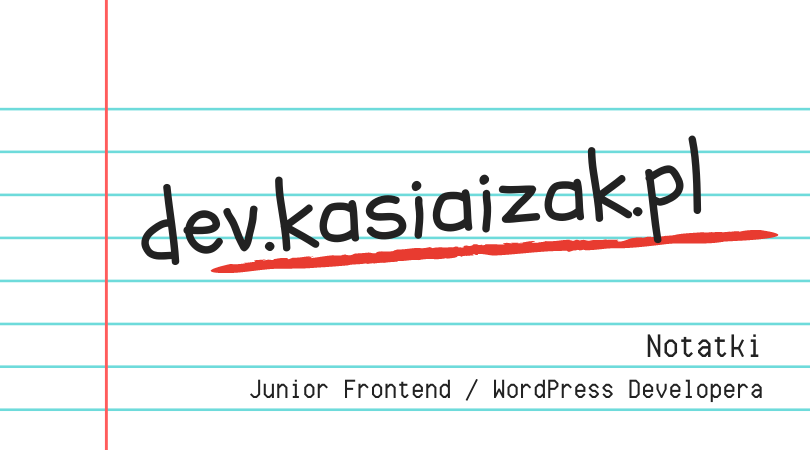
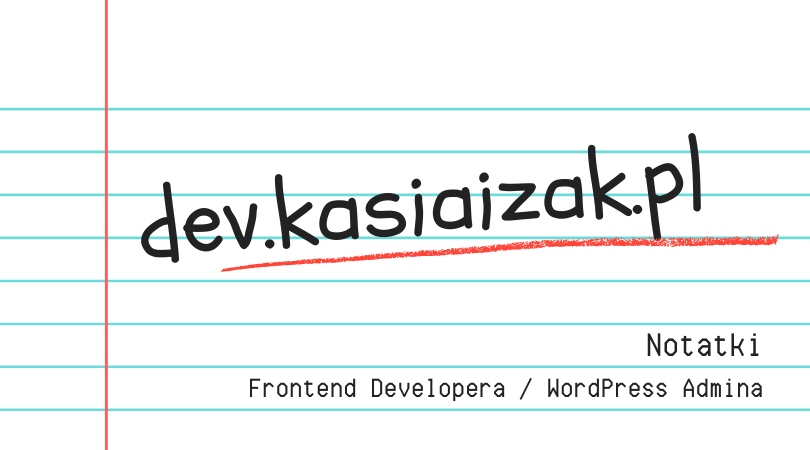
update: description, photo and cover

Changed region(s): [[0.1852, 0.3422, 0.9568, 0.6222], [0.3086, 0.84, 0.9568, 0.9022], [0.8025, 0.7467, 0.9259, 0.8089]]

diff --git a/README.md b/README.md
@@ -1,6 +1,6 @@
 # 👋 Witaj na stronie dev.kasiaizak.pl
 
-**dev.kasiaizak.pl** (dawniej **_Frontendowe notatki_**) to moje materiały zbierane podczas nauki frontendu 👩💻, a także podczas aktualnej pracy na stanowisku **Junior Frontend Developera**. 😁💪 Czemu w takiej formie? Wybrane narzędzie oferuje łatwą implementację kolorowania składni 🌈, na czym mi najbardziej zależało - screenshoty 📷 są przereklamowane - fajne, ale nie skopiujesz z nich łatwo kodu... 🤯 Gotowe serwisy oferujące podobną funkcjonalność mają swoje ograniczenia ⛔, a tu _Wolność Tomku w swoim domku_. 🤸♀🏡 Z drugiej strony stworzenie tego projektu w oparciu o czysty HTML i CSS jest oczywiście możliwe, ale byłoby zdecydowanie bardziej pracochłonne 🙄, a chyba każdy się zgodzi, że nie o to chodzi przy robieniu notatek... 😏 Ma być szybko 🚀 i prosto 👶 - moim zdaniem cel został osiągnięty. 👌😍
+**dev.kasiaizak.pl** (dawniej **_Frontendowe notatki_**) to moje materiały zbierane podczas nauki frontendu 👩💻, a także podczas aktualnej pracy na stanowisku **Frontend Developera / WordPress Admina**. 😁💪 Czemu w takiej formie? Wybrane narzędzie oferuje łatwą implementację kolorowania składni 🌈, na czym mi najbardziej zależało - screenshoty 📷 są przereklamowane - fajne, ale nie skopiujesz z nich łatwo kodu... 🤯 Gotowe serwisy oferujące podobną funkcjonalność mają swoje ograniczenia ⛔, a tu _Wolność Tomku w swoim domku_. 🤸♀🏡 Z drugiej strony stworzenie tego projektu w oparciu o czysty HTML i CSS jest oczywiście możliwe, ale byłoby zdecydowanie bardziej pracochłonne 🙄, a chyba każdy się zgodzi, że nie o to chodzi przy robieniu notatek... 😏 Ma być szybko 🚀 i prosto 👶 - moim zdaniem cel został osiągnięty. 👌😍
 
 A teraz parafrazując cytat _prof. Jana Miodka_ o materiałach tu zawartych...
 

diff --git a/_coverpage.md b/_coverpage.md
@@ -1,6 +1,6 @@
 <!-- markdownlint-disable MD041 -->
 
-![logo](_media/logo/photo_2026-03-20.jpg ':size=250')
+![logo](_media/photo_2026-03-20.jpg ':size=250')
 
 # dev.kasiaizak.pl
 
